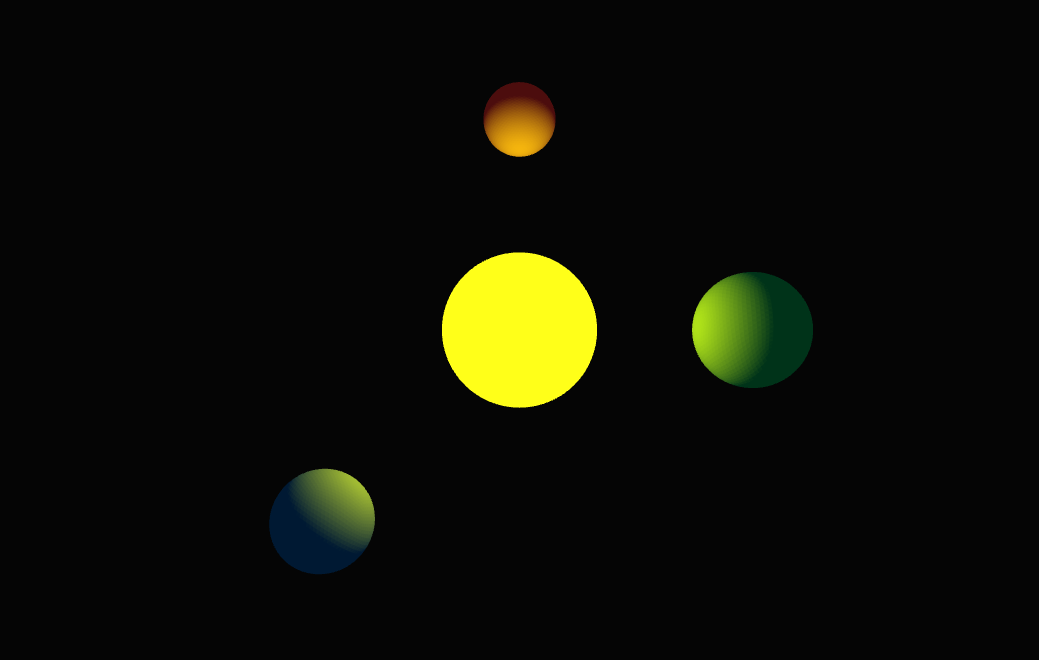
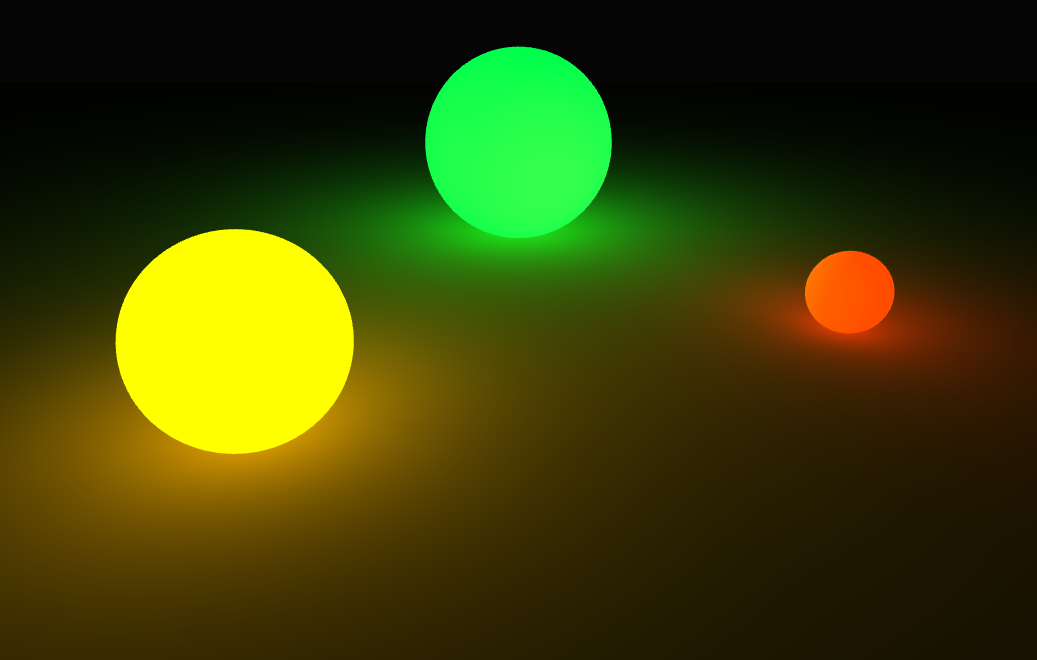
update example

diff --git a/example.js b/example.js
@@ -10,41 +10,55 @@ var gl = context(canvas)
 fit(canvas)
 
 var scene = require('./index.js')(gl, {
-  viewer: [0, -5, 20], 
+  viewer: [0, -18, 8], 
   background: [0.02, 0.02, 0.02]
 })
 
 var shapes = [
   {
-    id: 'sun',
-    complex: icosphere(4),
-    model: [2, 0, 0, 0, 0, 2, 0, 0, 0, 0, 2, 0, 0, 0, 0, 1]
+    id: 'floor',
+    complex: extrude([[-50, 50], [-50, -50], [50, -50], [50, 50]], {top: 0, bottom: -2}),
+    model: [1, 0, 0, 0, 0, 1, 0, 0, 0, 0, 1, 0, 0, 0, 0, 1]
   },
   {
-    id: 'earth', class: 'planet',
+    id: 'apple', class: 'sphere',
     complex: icosphere(4),
-    model: [1.5, 0, 0, 0, 0, 1.5, 0, 0, 0, 0, 1.5, 0, 6, 0, 0, 1]
+    model: [1, 0, 0, 0, 0, 1, 0, 0, 0, 0, 1, 0, 8, 0, 1, 1]
   },
   {
-    id: 'mars', class: 'planet',
+    id: 'orange', class: 'sphere',
     complex: icosphere(4),
-    model: [1, 0, 0, 0, 0, 1, 0, 0, 0, 0, 1, 0, 0, 6, 0, 1]
+    model: [2, 0, 0, 0, 0, 2, 0, 0, 0, 0, 2, 0, -5, -5, 2, 1]
   },
   {
-    id: 'neptune', class: 'planet',
+    id: 'pear', class: 'sphere',
     complex: icosphere(4),
-    model: [1.25, 0, 0, 0, 0, 1.25, 0, 0, 0, 0, 1.25, 0, -4.8, -4.8, 0, 1]
+    model: [3, 0, 0, 0, 0, 3, 0, 0, 0, 0, 3, 0, 0, 8, 3, 1]
   }
 ]
 
-var styles = [
-  {tag: '#sun', emissive: [0.9, 0.9, 0]},
-  {tag: '#earth', ambient: [0.0, 0.4, 0.2]},
-  {tag: '#mars', ambient: [0.6, 0.1, 0.1]},
-  {tag: '#neptune', ambient: [0.0, 0.2, 0.4]},
-  {tag: '.planet', diffuse: [0.9, 0.9, 0.9]}
+var shapeStyles = [
+  {tag: '#floor', diffuse: [0.3, 0.3, 0.3]},
+  {tag: '#apple', emissive: [0.8, 0.1, 0.0]},
+  {tag: '#pear', emissive: [0.0, 0.9, 0.1]},
+  {tag: '#orange', emissive: [0.9, 0.6, 0.0]},
+  {tag: '.sphere', diffuse: [0.1, 0.1, 0.1]}
 ]
 
-scene.shapes(shapes, styles)
+var lights = [
+  {id: 'pear', class: 'glow', position: [0, 8, 3, 1]},
+  {id: 'apple', class: 'glow', position: [8, 0, 1, 1]},
+  {id: 'orange', class: 'glow', position: [-5, -5, 2, 1]}
+]
+
+var lightStyles = [
+  {tag: '#pear', color: [0.0, 0.9, 0.1]},
+  {tag: '#apple', color: [0.8, 0.1, 0.0]},
+  {tag: '#orange', color: [0.9, 0.6, 0.0]},
+  {tag: '.glow', brightness: 8.0, ambient: 0.0, attenuation: 0.01}
+]
+
+scene.shapes(shapes, shapeStyles)
+scene.lights(lights, lightStyles)
 scene.init()
 scene.draw()

diff --git a/demo.js b/demo.js
@@ -49,17 +49,14 @@ var opts = [
 scene.shapes(shapes, opts)
 
 var lights = [
-  {id: 'point', position: [0, 0, 5, 1]}, 
   {id: 'pear', position: [0, 8, 3, 1]},
   {id: 'apple', position: [8, 0, 1, 1]},
   {id: 'orange', position: [-5, -5, 2, 1]}
 ]
 var opts = [
-  {tag: '#point', color: [1, 1, 1], brightness: 0.0, ambient: 0.0, attenuation: 0.01},
   {tag: '#pear', color: [0.0, 0.9, 0.1], brightness: 8.0, ambient: 0.0, attenuation: 0.01},
   {tag: '#apple', color: [0.8, 0.1, 0.0], brightness: 8.0, ambient: 0.0, attenuation: 0.01},
-  {tag: '#orange', color: [0.9, 0.6, 0.0], brightness: 8.0, ambient: 0.0, attenuation: 0.01},
-  {tag: '.bright', color: [1.0, 1.0, 1.0], brightness: 8.0}
+  {tag: '#orange', color: [0.9, 0.6, 0.0], brightness: 8.0, ambient: 0.0, attenuation: 0.01}
 ]
 
 scene.lights(lights, opts)

diff --git a/README.md b/README.md
@@ -38,53 +38,51 @@ Now create the scene, passing options for background color and viewer position
 
 ```javascript
 var scene = require('gl-scene')(gl, {
-  viewer: [0, -5, 20], 
+  viewer: [0, -18, 8], 
   background: [0.02, 0.02, 0.02]
 })
 ```
 
-A scene requires a list of shapes. It can additionally include lights and custom materials. We'll make a simple scene consisting of four spheres, representing three planets and a sun. We can set an `id` and `class` for styling later, and we specify a 4x4 `model` matrix, which controls rotation, translation, and scale.
+A scene requires a list of shapes. It can additionally include lights and custom materials. We'll make a simple scene consisting of three spheres on a flat surface. We can set an `id` and `class` for styling later, and we specify a 4x4 `model` matrix, which controls rotation, translation, and scale.
 
 ```javascript
 var icosphere = require('icosphere')
+var extrude = require('extrude')
 
 var shapes = [
   {
-    id: 'sun', class: 'star'
-    complex: icosphere(4),
-    model: [2, 0, 0, 0, 0, 2, 0, 0, 0, 0, 2, 0, 0, 0, 0, 1]
+    id: 'floor',
+    complex: extrude([[-50, 50], [-50, -50], [50, -50], [50, 50]], {top: 0, bottom: -2}),
+    model: [1, 0, 0, 0, 0, 1, 0, 0, 0, 0, 1, 0, 0, 0, 0, 1]
   },
   {
-    id: 'earth', class: 'planet',
+    id: 'apple', class: 'sphere',
     complex: icosphere(4),
-    model: [1.5, 0, 0, 0, 0, 1.5, 0, 0, 0, 0, 1.5, 0, 6, 0, 0, 1]
+    model: [1, 0, 0, 0, 0, 1, 0, 0, 0, 0, 1, 0, 8, 0, 1, 1]
   },
   {
-    id: 'mars', class: 'planet',
+    id: 'orange', class: 'sphere',
     complex: icosphere(4),
-    model: [1, 0, 0, 0, 0, 1, 0, 0, 0, 0, 1, 0, 0, 6, 0, 1]
+    model: [2, 0, 0, 0, 0, 2, 0, 0, 0, 0, 2, 0, -5, -5, 2, 1]
   },
   {
-    id: 'neptune', class: 'planet',
+    id: 'pear', class: 'sphere',
     complex: icosphere(4),
-    model: [1.25, 0, 0, 0, 0, 1.25, 0, 0, 0, 0, 1.25, 0, -4.8, -4.8, 0, 1]
+    model: [3, 0, 0, 0, 0, 3, 0, 0, 0, 0, 3, 0, 0, 8, 3, 1]
   }
 ]
 ```
 
-We can set styles by mapping `id` or `class` to material properties. We'll add a diffuse component to all planets, a different ambient color to each one, and an emissive color on the sun.
+We can set styles by mapping `id` or `class` to material properties. For now we'll just give all shapes a moderate ambient intensity.
 
 ```javascript
 var styles = [
-  {tag: '#sun', emissive: [0.9, 0.9, 0]},
-  {tag: '#earth', ambient: [0.0, 0.4, 0.2]},
-  {tag: '#mars', ambient: [0.6, 0.1, 0.1]},
-  {tag: '#neptune', ambient: [0.0, 0.2, 0.4]},
-  {tag: '.planet', diffuse: [0.9, 0.9, 0.9]}
+  {tag: '#floor', ambient: [0.2, 0.2, 0.2]},
+  {tag: '.sphere', ambient: [0.2, 0.2, 0.2]}
 ]
 ```
 
-We can add these shapes, with styles, to our scene, initialize, and draw!
+We can add these shapes and their styles to our scene, initialize, and draw!
 
 ```javascript
 scene.shapes(shapes, styles)
@@ -96,47 +94,50 @@ It should look like:
 
 ![example-0](pngs/example-stage-0.png)
 
-We didn't specify any lights, so we got a default white light above the origin. Let's make our own: a bright yellow light at the origin to represent the sun! Specify an `id` and 4x1 `position`.
+We didn't specify any lights, so we got the default: a white light above the origin. Let's add a bright colored light centered on each sphere. We define a list of lights and styles, just as we did with shapes.
 
 ```javascript
 var lights = [
-  {id: 'sun', position: [0, 0, 2, 1]}
+  {id: 'pear', class: 'glow', position: [0, 8, 3, 1]},
+  {id: 'apple', class: 'glow', position: [8, 0, 1, 1]},
+  {id: 'orange', class: 'glow', position: [-5, -5, 2, 1]}
 ]
-```
 
-Set styles by making it bright yellow and moderately ambient.
-
-```javascript
 var styles = [
-  {tag: '#sun', color: [0.9, 0.9, 0.0], brightness: 2.5, ambient: 0.5, attenuation: 0.01}
+  {tag: '.glow', brightness: 8.0, ambient: 0.0, attenuation: 0.01},
+  {tag: '#pear', color: [0.0, 0.9, 0.1]},
+  {tag: '#apple', color: [0.8, 0.1, 0.0]},
+  {tag: '#orange', color: [0.9, 0.6, 0.0]}
 ]
 ```
 
-Add it to the scene, reinitialize, and draw.
+Add the lights to the scene and reinitialize.
 
 ```javascript
 scene.lights(lights, styles)
 scene.init()
+```
+
+Before redrawing, we're going to update the shape properties, making the floor darker, and giving each sphere the same emissive color as the light, so they look like they're glowing. We can use `select` to update styles (and also do things like movement, see below).
+
+```javascript
+scene.select('shape #floor').style({diffuse: [0.3, 0.3, 0.3]})
+scene.select('shape #apple').style({emissive: [0.8, 0.1, 0.0], diffuse: [0.1, 0.1, 0.1]})
+scene.select('shape #orange').style({emissive: [0.9, 0.6, 0.0], diffuse: [0.1, 0.1, 0.1]})
+scene.select('shape #pear').style({emissive: [0.0, 0.9, 0.1], diffuse: [0.1, 0.1, 0.1]})
+```
+
+Finally redraw the scene
+
+```javascript
 scene.draw()
 ```
 
-And you'll see:
+Glowing fruit!
 
 ![example-1](pngs/example-stage-1.png)
 
-Finally, let's add a simple animation, where the sun grows and shrinks, and the light gets brighter and dimmer. You can `select` both shapes and lights and then use functions like `move` and `style` to dynamically change their properties.
-
-```javascript
-setInterval(function () {
-  var d = Math.sin(scene.frame / 30)
-  scene.select('#sun').move(function (m) {mat4.scale(m, mat4.create(), [2 + d, 2 + d, 2 + d])})
-  scene.select('light #sun').style({brightness: 2.5 + d * 1.5})
-  scene.draw()
-}, 10)
-```
-Fun!
-
-![example-2](gifs/example-stage-2.gif)
+See [example](example.js) for a script that generates this image, and see [demo] for a slightly more complex animal that adds a camera and uses `select` to dynamically modify properties that turn the glowing on and off.
 
 ## methods
 
